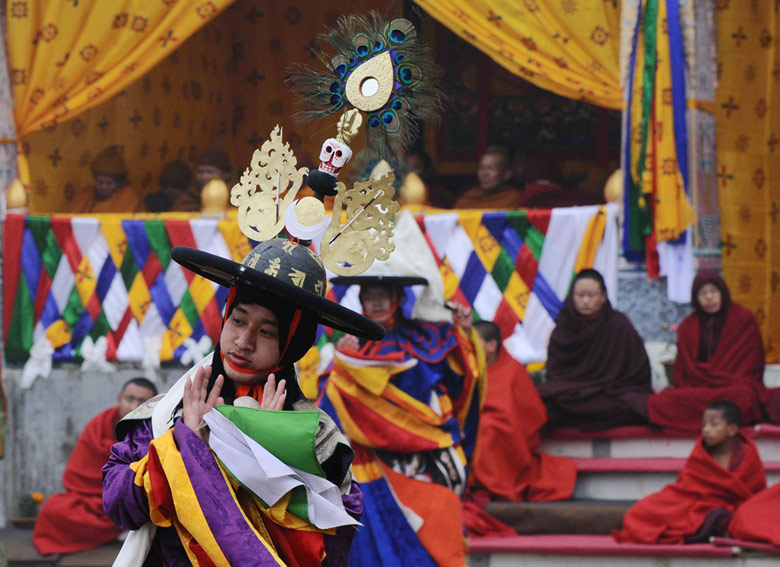
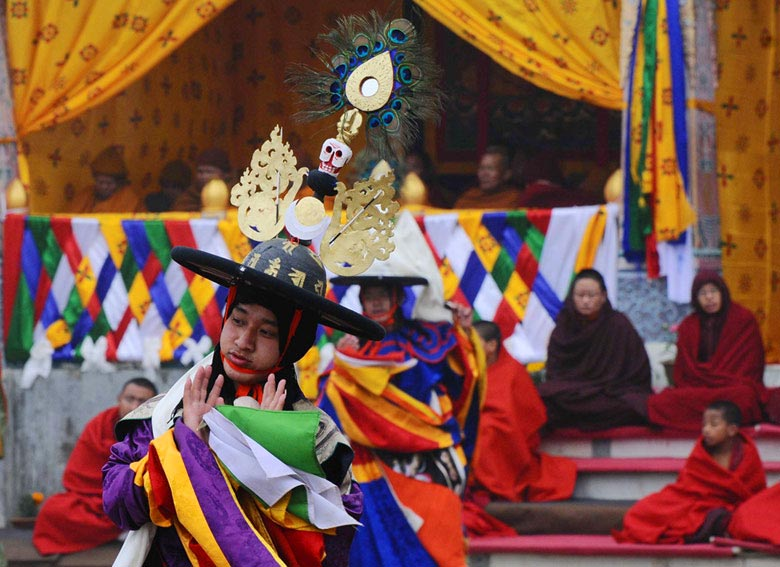
brighter colours in final image, caption updates

diff --git a/app/monks-army.html b/app/monks-army.html
@@ -202,7 +202,7 @@
   <img src="/images/story-image-sml/girl-praying.jpg"/>
   <div class="paragraph-container">
     <p>
-      Prayers: Sunday Mass at St. Mary's Cathedral (top) and evening Ramadan prayer at  the Juma Masjid (bottom) in Colombo.
+      Prayers: Sunday Mass at St. Mary's Cathedral in Jaffna (top) and evening Ramadan prayer at  the Jumma Mosque in Colombo (bottom).
     </p>
   </div>
 </div>
@@ -274,7 +274,7 @@
   <div class="paragraph-container">
     <p class="credit">STRDEL/AFP/Getty Images</p>
     <p>
-      Buddhist monks perform a traditional dance at a monastery in Bodhgaya, Bhutan, famous for being the place where Gautama Buddha is said to have reached enlightenment.
+      Buddhist monks preform a traditional dance at a monastery in Bodhgaya, India, known as the place where Gautama Buddha obtained enlightenment.
     </p>
   </div>
 </div>

diff --git a/app/styles/app.less b/app/styles/app.less
@@ -858,7 +858,7 @@ article {
   background-repeat: no-repeat;
   background-size: cover;
   &.dancers {
-    .responsiveBGInArticle('story-image-lg/dancers');
+    .responsiveBGInArticle('story-image-lg/dancers2');
   }
   &.monk-loudspeaker {
     .responsiveBGInArticle('story-image-lg/monk-loudspeaker');
